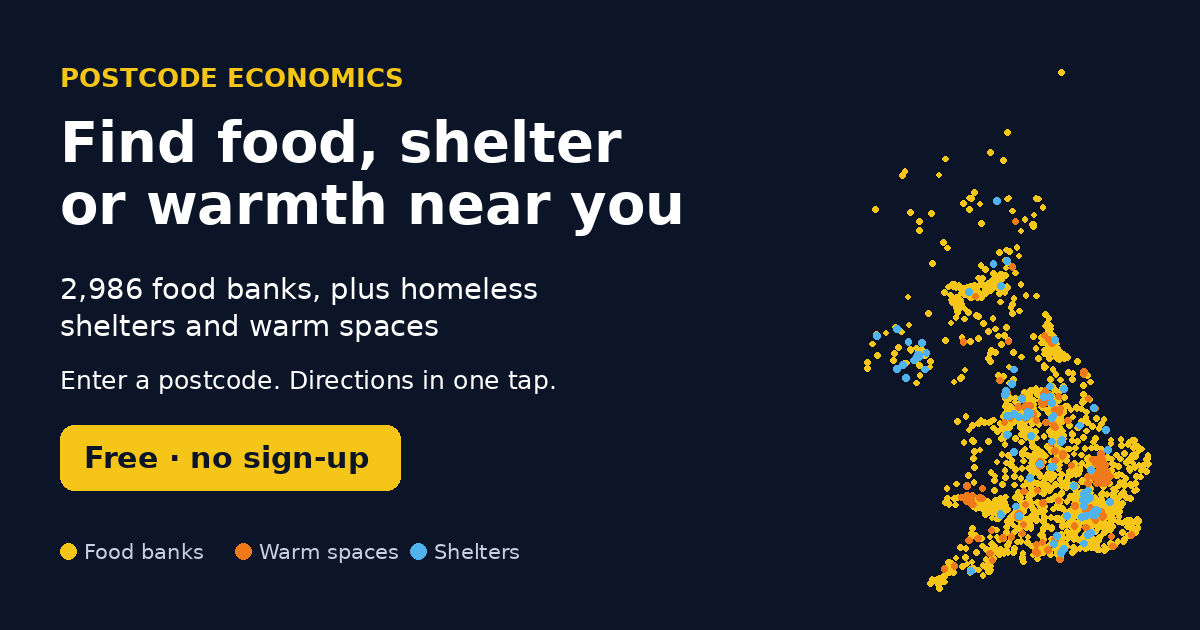
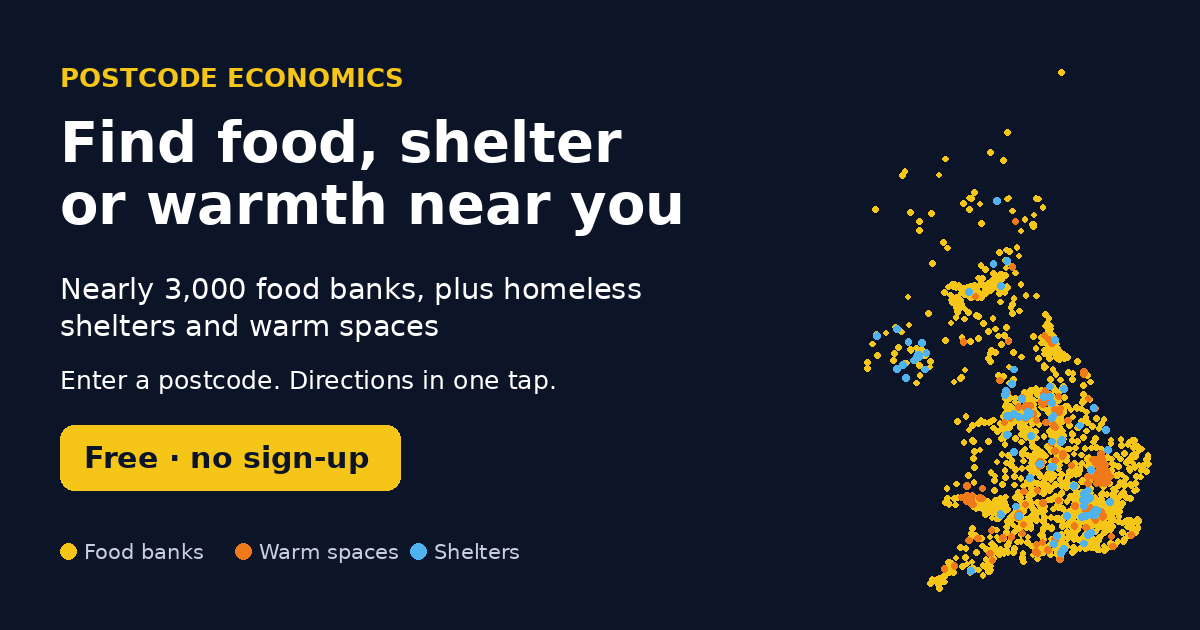
Social preview: 'nearly 3,000 food banks' wording (image + og/twitter descriptions)

Changed region(s): [[0.0308, 0.4222, 0.555, 0.4825]]

diff --git a/index.html b/index.html
@@ -2,10 +2,10 @@
 <title>Find a food bank near you · Postcode Economics</title>
 <meta name="description" content="Free map of 2,968 UK food banks and locations. Enter a postcode, see the nearest five, get directions in one tap. No sign-up.">
 <meta property="og:type" content="website"><meta property="og:title" content="Find food, shelter or warmth near you">
-<meta property="og:description" content="Free UK map of 2,986 food banks, plus homeless shelters and warm spaces. Enter a postcode. Directions in one tap. No sign-up.">
+<meta property="og:description" content="Free UK map of nearly 3,000 food banks, plus homeless shelters and warm spaces. Enter a postcode. Directions in one tap. No sign-up.">
 <meta property="og:image" content="https://postcode-economics.github.io/find-your-food-bank/og_launch.png"><meta property="og:image:alt" content="Free UK food bank, shelter and warm space map"><meta property="og:image:width" content="1200"><meta property="og:image:height" content="630">
 <meta name="twitter:card" content="summary_large_image"><meta name="twitter:title" content="Find food, shelter or warmth near you">
-<meta name="twitter:description" content="Free UK map of 2,986 food banks, plus homeless shelters and warm spaces. Enter a postcode. Directions in one tap."><meta name="twitter:image" content="https://postcode-economics.github.io/find-your-food-bank/og_launch.png">
+<meta name="twitter:description" content="Free UK map of nearly 3,000 food banks, plus homeless shelters and warm spaces. Enter a postcode. Directions in one tap."><meta name="twitter:image" content="https://postcode-economics.github.io/find-your-food-bank/og_launch.png">
 <link rel="stylesheet" href="vendor/leaflet.css"><link rel="stylesheet" href="vendor/MarkerCluster.css"><link rel="stylesheet" href="vendor/MarkerCluster.Default.css"><link rel="stylesheet" href="layers.css"><link rel="stylesheet" href="report.css"><link rel="stylesheet" href="v3.css"><script src="icons.js"></script>
 <style>
 :root{--navy:#0A1628;--gold:#F5C518;--red:#E63946;--white:#F2F4F8;--card:#13223d;--muted:#b9c2d3}
